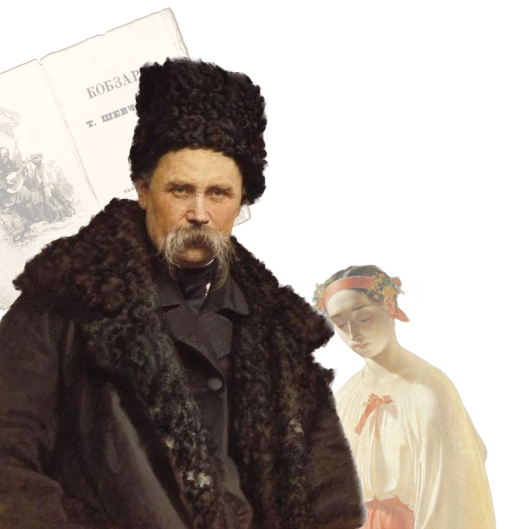
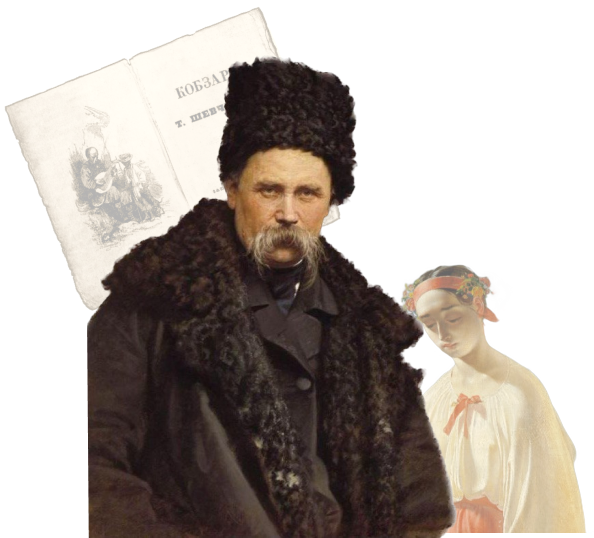
feat(client): added taras shevchenko section

diff --git a/pages/index.tsx b/pages/index.tsx
@@ -23,38 +23,49 @@ const Home = () => {
           className="absolute inset-0 -z-10 h-full w-full object-cover"
         />
       </section>
-      <section className="relative py-[220px]">
-        <div id="taras-section-bg" className="absolute inset-0">
-          <svg
-            xmlns="http://www.w3.org/2000/svg"
-            width="0"
-            height="0"
-            viewBox="0 0 1440.62 578.28"
-          >
-            <clipPath id="svgPath-1" clipPathUnits="objectBoundingBox">
-              <path
-                d="M0,0V578.28s764.8-199.46,1440.62,0V0Z"
-                transform="scale(0.00069414557,0.00172926609)"
-                fill="none"
-              />
-            </clipPath>
-          </svg>
+      <section className="relative bg-background-dark py-[220px]">
+        <div className="absolute inset-0 bottom-0 left-0 2xl:container">
           <Image
             alt="shevchenko"
-            className="absolute bottom-0 left-0"
+            className="absolute -left-[90px] bottom-0"
             src="/images/taras-group.png"
-            width="501"
-            height="531"
+            width="594"
+            height="538"
           />
         </div>
-        <div className="container">
+        <div className="container xl:px-16">
           <div className="relative">
+            {/* <div id="taras-section-bg" className="absolute inset-0"> */}
+            {/*  <svg */}
+            {/*    xmlns="http://www.w3.org/2000/svg" */}
+            {/*    width="0" */}
+            {/*    height="0" */}
+            {/*    viewBox="0 0 1440.62 578.28" */}
+            {/*  > */}
+            {/*    <clipPath id="svgPath-1" clipPathUnits="objectBoundingBox"> */}
+            {/*      <path */}
+            {/*        d="M0,0V578.28s764.8-199.46,1440.62,0V0Z" */}
+            {/*        transform="scale(0.00069414557,0.00172926609)" */}
+            {/*        fill="none" */}
+            {/*      /> */}
+            {/*    </clipPath> */}
+            {/*  </svg> */}
+            {/* */}
+            {/* </div> */}
+
             <div className="gap relative z-10 ml-auto flex max-w-[800px] flex-col gap-8 text-right font-cassandra text-[34px]">
               <p>“{t("tarasQuote")}”</p>
               <p>{t("tarasName")}</p>
             </div>
 
-            <span className="absolute -right-[1%] top-1/2 aspect-[139/87] w-[56%] -translate-y-1/2 border border-primary"></span>
+            <span className="absolute -right-[10%] top-1/2 aspect-[139/87] w-[60%] -translate-y-1/2 border border-primary"></span>
+            <img
+              alt="tree"
+              src="/images/tree.png"
+              className="absolute -right-[21.35%] -top-[336px] -rotate-[39.15deg]"
+              width="425"
+              height="627"
+            />
           </div>
         </div>
       </section>

diff --git a/public/globals.css b/public/globals.css
@@ -31,11 +31,15 @@
 
 @layer base {
     html {
-        @apply scroll-smooth font-body text-secondary ;
+        @apply scroll-smooth font-body text-secondary  ;
     }
 
     body{
-        @apply bg-background
+        @apply bg-background  w-screen
+    }
+
+    body > div{
+        @apply overflow-x-hidden
     }
 
     h2 {

diff --git a/components/Header.tsx b/components/Header.tsx
@@ -1,6 +1,6 @@
 "use client";
 
-import IconMail from "~icons/pu/mail";
+import IconMail from "~icons/pu/mail.jsx";
 import Link from "next/link";
 import Image from "next/image";
 import React from "react";

diff --git a/tailwind.config.ts b/tailwind.config.ts
@@ -20,6 +20,7 @@ const config: Config = {
         },
         background: {
           DEFAULT: "#F8EACA",
+          dark: "#F4E6C6",
         },
       },
       screens: {
